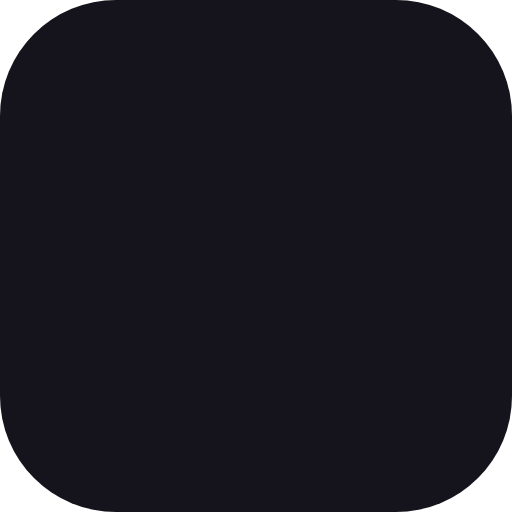
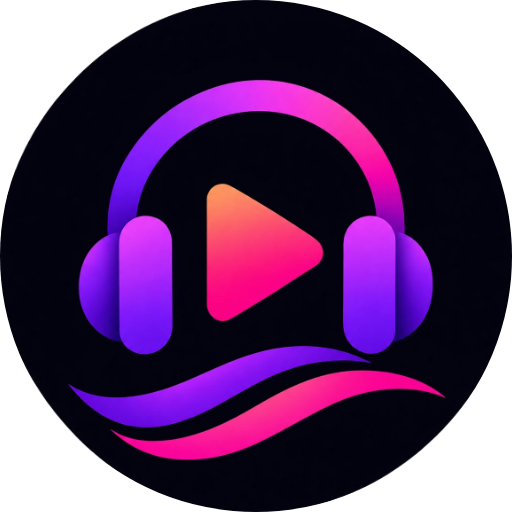
Cambia el icono de la app
Claude-Session: https://claude.ai/code/session_019ZoFMdLuB1kt6in67H9rrk

diff --git a/index.html b/index.html
@@ -7,14 +7,14 @@
 <meta name="description" content="Tu música, sin suscripciones: biblioteca propia, nube personal, música libre y radios.">
 <meta name="theme-color" content="#15131c">
 <link rel="manifest" href="manifest.webmanifest">
-<link rel="icon" href="icons/icon.svg" type="image/svg+xml">
-<link rel="apple-touch-icon" href="icons/icon-192.png">
+<link rel="icon" href="icons/icon-64.png" type="image/png">
+<link rel="apple-touch-icon" href="icons/icon-180.png">
 <link rel="stylesheet" href="css/styles.css">
 </head>
 <body>
 <div id="app">
   <nav id="nav" aria-label="Principal">
-    <a class="brand" href="#/inicio"><img src="icons/icon.svg" alt="" width="28" height="28"><span>Fiora</span></a>
+    <a class="brand" href="#/inicio"><img src="icons/icon-64.png" alt="" width="28" height="28"><span>Fiora</span></a>
     <div id="nav-links"></div>
   </nav>
   <main id="view" tabindex="-1"></main>

diff --git a/sw.js b/sw.js
@@ -1,10 +1,10 @@
 // Service worker: guarda la app para abrirla sin conexión. La música vive en IndexedDB, no aquí.
-const CACHE = 'fiora-v3';
+const CACHE = 'fiora-v4';
 const SHELL = [
   './', 'index.html', 'manifest.webmanifest', 'css/styles.css',
   'js/app.js', 'js/db.js', 'js/store.js', 'js/tags.js', 'js/library.js', 'js/player.js',
   'js/cloud.js', 'js/sources.js', 'js/lyrics.js', 'js/recs.js', 'js/icons.js', 'js/sync.js', 'js/account.js', 'js/config.js',
-  'vendor/jsmediatags.min.js', 'icons/icon.svg', 'icons/icon-192.png', 'icons/icon-512.png',
+  'vendor/jsmediatags.min.js', 'icons/icon-64.png', 'icons/icon-180.png', 'icons/icon-192.png', 'icons/icon-512.png',
 ];
 
 self.addEventListener('install', e => {
